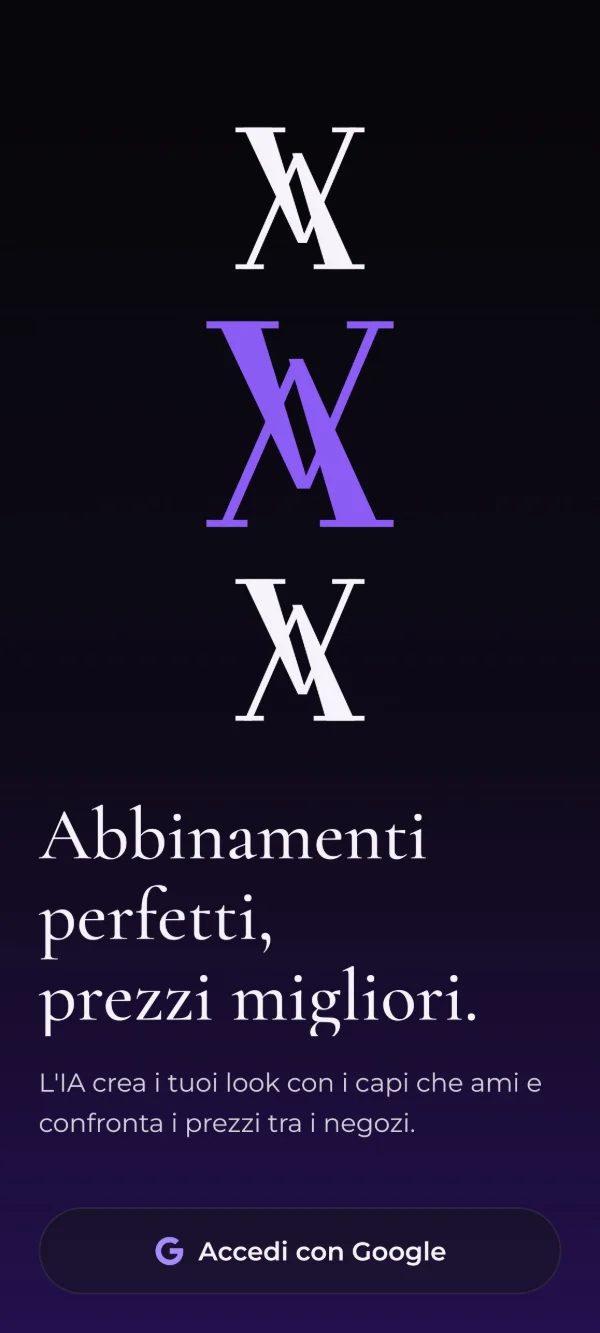
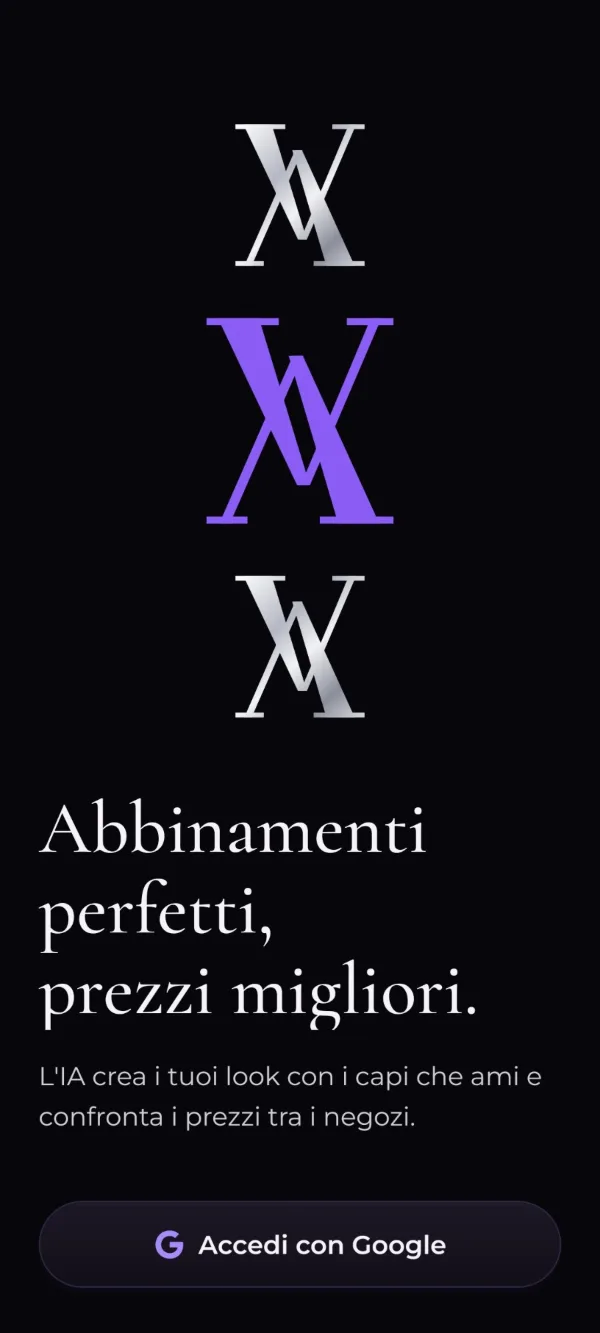
Schermate nuove dell'app e Armadio "al lancio"
- Accesso, Look (con il figurino) e Swipe con la grafica nuova dell'app,
  senza barra di stato e senza l'ingranaggio dell'app di sviluppo
- Immagini con ?v=2 perché i browser scarichino quelle nuove
- "Come funziona": l'Armadio non è più "in arrivo" ma "al lancio"
- Anteprima per i social con il nuovo Look (og:image ?v=3)

diff --git a/index.html b/index.html
@@ -15,7 +15,7 @@
 <meta property="og:url" content="https://vividviolet.it/">
 <meta property="og:title" content="Vivid Violet · Ogni mattina, il look giusto.">
 <meta property="og:description" content="La stilista IA che guarda il meteo della tua città, impara i tuoi gusti e confronta i prezzi dei negozi online. App Android in arrivo.">
-<meta property="og:image" content="https://vividviolet.it/anteprima.png?v=2">
+<meta property="og:image" content="https://vividviolet.it/anteprima.png?v=3">
 <meta property="og:image:type" content="image/png">
 <meta property="og:image:width" content="1200">
 <meta property="og:image:height" content="630">
@@ -133,15 +133,12 @@
   h2 { font-family: var(--serif); font-weight: 500; font-size: clamp(36px, 5vw, 54px); line-height: 1.05; margin: 0; text-wrap: balance; }
   .intro { color: var(--tenue); max-width: 60ch; margin: 0 0 40px; }
   /* "Come funziona": la mattina come linea del tempo (orizzontale su computer, verticale sul telefono).
-     L'ultimo tratto, verso l'Armadio che arriverà, è tratteggiato. */
+     L'ultimo momento chiude la linea. */
   .mattina { list-style: none; margin: 0; padding: 0; display: grid; grid-template-columns: repeat(5, 1fr); }
   .momento { position: relative; display: grid; gap: 10px; align-content: start; padding: 30px 28px 0 0; border-top: 1px solid var(--viola-chiaro); }
   .momento::before { content: ""; position: absolute; left: 0; top: -6px; width: 12px; height: 12px; border-radius: 50%; background: radial-gradient(circle at 35% 30%, #F1EBFF 0%, #A78BFA 45%, #5B21B6 100%); box-shadow: 0 2px 4px rgba(0,0,0,.7), 0 0 0 4px rgba(139, 92, 246, .14); }
-  .momento:nth-last-child(2) { border-top: 1px dashed var(--argento); }
-  .momento.futuro { border-top-color: transparent; }
-  .momento.futuro::before { background: var(--nero); border: 1px solid var(--argento); box-shadow: none; }
+  .momento:last-child { border-top-color: transparent; }
   .momento .ora { font-family: var(--serif); font-style: italic; font-size: 30px; line-height: 1; color: var(--viola-chiaro); }
-  .momento.futuro .ora { color: var(--argento); }
   .momento h3 { margin: 4px 0 0; font-family: var(--serif); font-weight: 500; font-size: 26px; line-height: 1.12; text-wrap: balance; }
   .momento p { margin: 0; color: var(--tenue); font-size: 14.5px; }
   .presto { font-size: 11px; letter-spacing: .2em; text-transform: uppercase; color: var(--argento); }
@@ -179,8 +176,7 @@
     .mattina { grid-template-columns: 1fr; max-width: 560px; }
     .momento { border-top: 0; border-left: 1px solid var(--viola-chiaro); padding: 0 0 40px 30px; }
     .momento::before { left: -6px; top: 8px; }
-    .momento:nth-last-child(2) { border-top: 0; border-left: 1px dashed var(--argento); }
-    .momento.futuro { border-left-color: transparent; padding-bottom: 0; }
+    .momento:last-child { border-left-color: transparent; padding-bottom: 0; }
     .trasparenza, .attesa { grid-template-columns: 1fr; }
     .telefoni { gap: 16px; }
     .telefono .cornice { border-radius: 30px; padding: 7px; }
@@ -237,7 +233,7 @@
     <!-- Su computer: il Look del giorno accanto al titolo (sul telefono è nascosto e il Look resta nel carosello sotto) -->
     <figure class="telefono telefono-eroe">
       <div class="cornice"><div class="schermo">
-        <img src="img/look.webp" width="600" height="1333" alt="Schermata Look: meteo della città e outfit consigliato del giorno" fetchpriority="high" onerror="mettiSegnaposto(this)">
+        <img src="img/look.webp?v=2" width="600" height="1333" alt="Schermata Look: la frase della stilista e il figurino vestito con l'outfit del giorno, capo per capo" fetchpriority="high" onerror="mettiSegnaposto(this)">
       </div></div>
       <figcaption>Look del giorno</figcaption>
     </figure>
@@ -246,19 +242,19 @@
     <div class="telefoni" role="list" aria-label="Schermate dell'app">
       <figure class="telefono" role="listitem">
         <div class="cornice"><div class="schermo">
-          <img src="img/accedi.webp" width="600" height="1333" alt="Schermata di accesso dell'app con il pulsante Accedi con Google" loading="lazy" onerror="mettiSegnaposto(this)">
+          <img src="img/accedi.webp?v=2" width="600" height="1333" alt="Schermata di accesso dell'app con il pulsante Accedi con Google" loading="lazy" onerror="mettiSegnaposto(this)">
         </div></div>
         <figcaption>Accesso</figcaption>
       </figure>
       <figure class="telefono look-riga" role="listitem">
         <div class="cornice"><div class="schermo">
-          <img src="img/look.webp" width="600" height="1333" alt="Schermata Look: meteo della città e outfit consigliato del giorno" loading="lazy" onerror="mettiSegnaposto(this)">
+          <img src="img/look.webp?v=2" width="600" height="1333" alt="Schermata Look: la frase della stilista e il figurino vestito con l'outfit del giorno, capo per capo" loading="lazy" onerror="mettiSegnaposto(this)">
         </div></div>
         <figcaption>Look del giorno</figcaption>
       </figure>
       <figure class="telefono" role="listitem">
         <div class="cornice"><div class="schermo">
-          <img src="img/swipe.webp" width="600" height="1333" alt="Schermata Swipe: una carta con un capo da votare" loading="lazy" onerror="mettiSegnaposto(this)">
+          <img src="img/swipe.webp?v=2" width="600" height="1333" alt="Schermata Swipe: una carta con un capo da votare" loading="lazy" onerror="mettiSegnaposto(this)">
         </div></div>
         <figcaption>Swipe IA</figcaption>
       </figure>
@@ -289,11 +285,11 @@
           <h3>Due minuti di Swipe IA.</h3>
           <p>Scorri i capi che ti propone e dai un voto: mi piace, non mi piace o super like. Ogni voto le insegna i tuoi gusti, e il look di domani sarà ancora più tuo.</p>
         </li>
-        <li class="momento futuro">
-          <span class="ora">Presto</span>
+        <li class="momento">
+          <span class="ora">Quando vuoi</span>
           <h3>Il tuo armadio.</h3>
           <p>Fotografa i tuoi vestiti: il look del giorno userà prima di tutto quello che hai già.</p>
-          <span class="presto">In arrivo</span>
+          <span class="presto">Al lancio</span>
         </li>
       </ol>
     </section>
